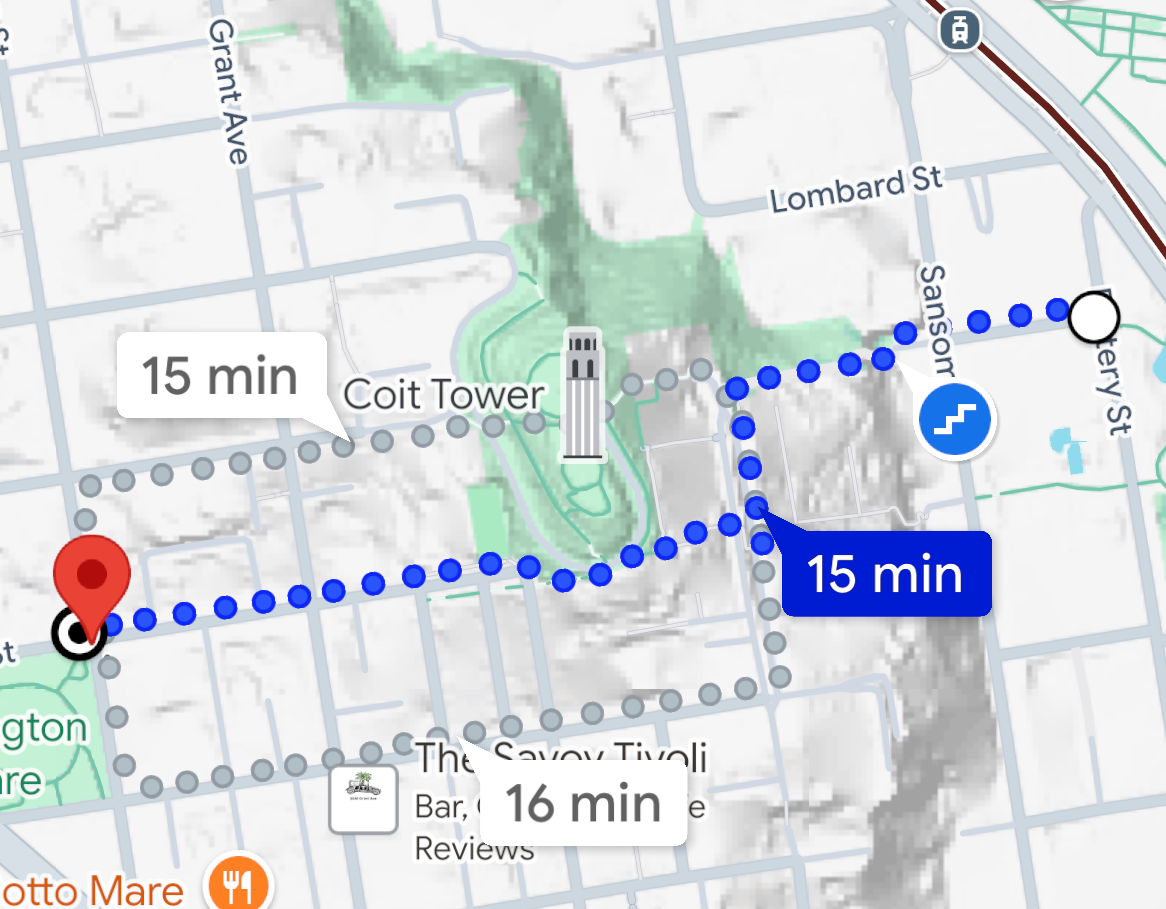
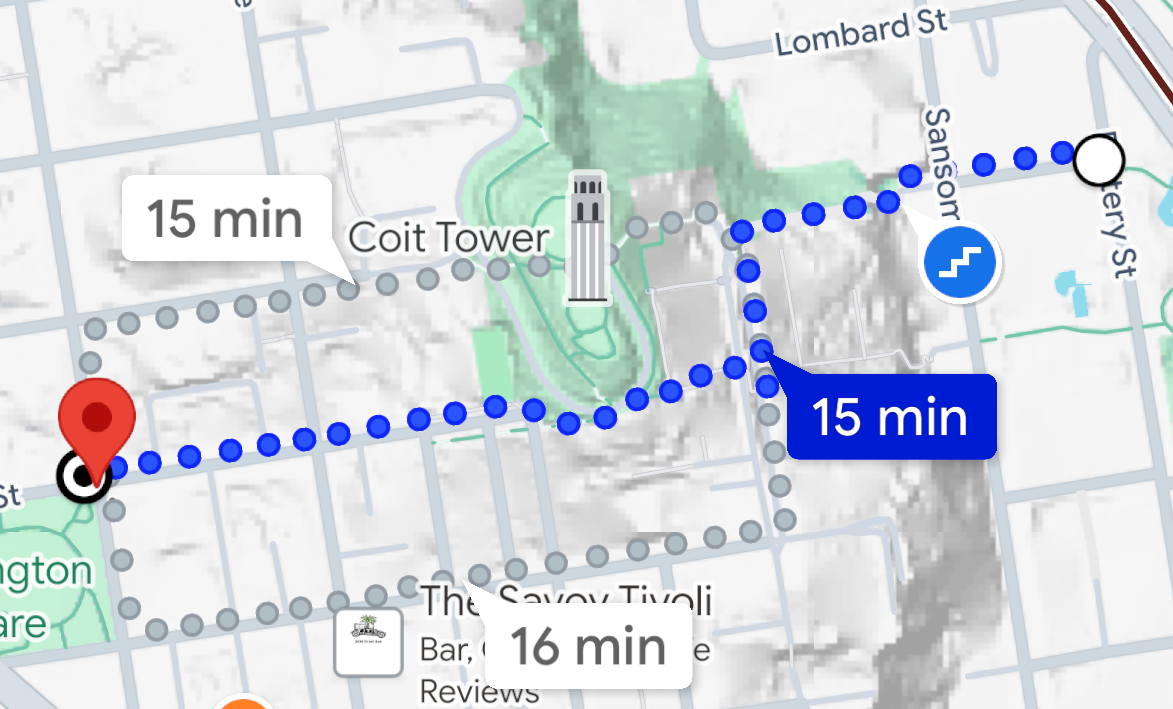
Site updated: 2025-11-25 19:37:01

diff --git a/2025/11/24/So-how-big-is-San-Francisco/index.html b/2025/11/24/So-how-big-is-San-Francisco/index.html
@@ -107,20 +107,30 @@ While he was showing me his neighb">
     <h2 id="Context"><a href="#Context" class="headerlink" title="Context"></a>Context</h2><p>My friend Daniel just started at Meta as a software engineer in San Francisco, so I went to pay him a visit.</p>
 <p>While he was showing me his neighbourhood and we were walking down from Telegraph Hill, he mentioned the city is “about 7 miles by 7 miles”. I found that an interesting fact and we left it at that.</p>
 <p>On our way back, we checked the distance to get home using Google Maps, and it showed 0.51 miles. It felt a lot longer. Why? That’s because it was. Using Google’s point to point distance measuring tool, we found that the distance of 0.51 miles was as if we were walking on a flat surface. It didn’t account for the fact that we just crossed a steep hill.</p>
-<p><img src="/images/googlemaps.jpg"
-     alt="Telegraph Hill maps route"
-     style="max-width:600px;width:100%;height:auto;display:block;margin:0 auto;" /></p>
-<p>In the measured profile of our route, you can see we climbed about 250 feet up, then descended about 170 feet down. Although the distance on the x axis shows 0.51 miles (about 2700 feet), the actual distance we walked is clearly longer.</p>
 <p><img src="/images/TelegraphHillSmooth.jpg"
      alt="Telegraph Hill walking route"
      style="max-width:600px;width:100%;height:auto;display:block;margin:0 auto;" /></p>
+<p>In the measured profile of our route, you can see we climbed about 250 feet up, then descended about 170 feet down. Although the distance on the x axis shows 0.51 miles (about 2700 feet), the actual distance we walked is clearly longer.</p>
 <p>This got us thinking, how big is San Francisco really? When we measure 7 miles, does this mean the straight line walking distance from one end of the city to the other? Or does it mean the distance if a laser went directly from one end to the other, ignoring all the hills and valleys in between?</p>
-<h2 id="How-is-surface-measured"><a href="#How-is-surface-measured" class="headerlink" title="How is surface measured?"></a>How is surface measured?</h2><br>
+<p><img src="/images/googlemaps.jpg"
+     alt="Telegraph Hill maps route"
+     style="max-width:480px;width:100%;height:auto;display:block;margin:0 auto;" /></p>
+<br>
 
-<h4 id="Planar-Area"><a href="#Planar-Area" class="headerlink" title="Planar Area:"></a>Planar Area:</h4><p>This is the most common way of measuring area. The terrain is reprojected onto a surface, effectively assuming a perfectly flat surface. Using this method means that an area would not increase in square footage if we added hills or valleys. This is what Google Maps does when it measures point to point distance, or distance on the route given by the GPS. In practice, this is the most common use case. When Uber charges you by distance or when you measure how far you ran on Strava, you’re using planar measurements.</p>
+<h2 id="How-is-surface-measured"><a href="#How-is-surface-measured" class="headerlink" title="How is surface measured?"></a>How is surface measured?</h2><div style="text-align:center;"><strong>1. Planar Area:</strong></div>
+
+<p>This is the most common way of measuring area. The terrain is reprojected onto a surface, effectively assuming a perfectly flat surface. Using this method means that an area would not increase in square footage if we added hills or valleys. This is what Google Maps does when it measures point to point distance, or distance on the route given by the GPS. In practice, this is the most common use case. When Uber charges you by distance or when you measure how far you ran on Strava, you’re using planar measurements.</p>
 <p>The exact planar area of San Francisco is 46.92 square miles (US Census Bureau).</p>
-<h4 id="Geodesic-Area"><a href="#Geodesic-Area" class="headerlink" title="Geodesic Area:"></a>Geodesic Area:</h4><p>To be slightly more accurate, geodesic measurement uses a smooth reference ellipsoid that mimics the Earth’s curvature. Just like a planar measurement, it ignores hills, valleys and roughness. That means measuring distances along the actual surface of the Earth, which is curved and uneven.</p>
-<h4 id="Terrain-aware-3D-Area"><a href="#Terrain-aware-3D-Area" class="headerlink" title="Terrain-aware (3D) Area:"></a>Terrain-aware (3D) Area:</h4><p>This method takes into account the elevation changes of the terrain. It incorporates elevation by adding up true 3D segment lengths based on a given interval. For consecutive points (x1, y1, z1) and (x2, y2, z2), the segment length is sqrt((Δx)^2 + (Δy)^2 + (Δz)^2), accounting for hills and valleys via the change in elevation Δy and Δz. This makes the distance walked or area covered strictly larger than the planar measurement. This is useful for activities like hiking or mountain biking, where elevation changes significantly impact the distance traveled. For our example of going up and down Telegraph Hill, the actual distance would be calculated by summing all the hypotenuses of the lines in the measured profile using the Pythagorean theorem.</p>
+<div style="text-align:center;"><strong>2. Geodesic Area:</strong></div>
+
+<p>To be slightly more accurate, geodesic measurement uses a smooth reference ellipsoid that mimics the Earth’s curvature. Just like a planar measurement, it ignores hills, valleys and roughness. That means measuring distances along the actual surface of the Earth, which is curved and uneven.</p>
+<div style="text-align:center;"><strong>3. Terrain-aware Area:</strong></div>
+
+<p>This method takes into account the elevation changes of the terrain. It incorporates elevation by adding up true 3D segment lengths based on a given interval. For consecutive points (x<sub>1</sub>, y<sub>1</sub>, z<sub>1</sub>) and (x<sub>2</sub>, y<sub>2</sub>, z<sub>2</sub>), the segment length is ℓ<sub>i</sub> = &radic;((Δx<sub>i</sub>)<sup>2</sup> + (Δy<sub>i</sub>)<sup>2</sup> + (Δz<sub>i</sub>)<sup>2</sup>), where Δz is elevation change; total length: L = &Sigma; ℓ<sub>i</sub>.</p>
+<p>This accounts for hills and valleys via the change in elevation Δz, making the distance walked or area covered strictly larger than the planar measurement. This is useful for activities like hiking or mountain biking, where elevation changes significantly impact the distance traveled. For our example of going up and down Telegraph Hill, the actual distance would be calculated by summing all the hypotenuses of the lines in the measured profile using the Pythagorean theorem.</p>
+<br>
+<br>
+
 <h2 id="The-coastline-paradox"><a href="#The-coastline-paradox" class="headerlink" title="The coastline paradox"></a>The coastline paradox</h2><p>It may not be obvious, but we are stumbling into a classic problem in geography called the coastline paradox. The paradox is that the distance or area depends greatly on the granularity of the measurement. The more detailed the measurement, the longer (larger) the distance (area).</p>
 <p>Let’s go back to our Telegraph Hill example. The two figures below show the measured profile of the exact same route. The difference is only in the resolution. The first uses 200’ sampling, whereas the second uses the more granular 25’ sampling. It’s visually obvious that the lower sampling (bottom figure) results in a longer line. </p>
 <p><img src="/images/TelegraphHillSmooth.jpg"
@@ -148,13 +158,13 @@ While he was showing me his neighb">
   </tbody>
 </table>
 <br>
-The Coastline Paradox.
+...The Coastline Paradox.
 <br>
 <br>
 
 <h2 id="Conclusion"><a href="#Conclusion" class="headerlink" title="Conclusion"></a>Conclusion</h2><p>To answer the question, “How big is San Francisco?”, I will give you the answer of any good economist: “It depends”.</p>
 <p>From a theoretical standpoint, the area of San Francisco is infinite.<br>From a practical standpoint, let’s stick with 7x7 miles. </p>
-<!-- Small acknowledgment -->
+<!-- Small acknowledgement -->
 <p><small>Thank you Shamil Khedgikar (geospatial data science expert) for technical details and fact checking.</small></p>
 
 

diff --git a/about/index.html b/about/index.html
@@ -16,13 +16,17 @@
 
   <!-- Title -->
   
-  <title>about - Christian&#39;s Blog</title>
+  <title>Christian - Christian&#39;s Blog</title>
 
   <!--Description-->
   
-      <meta name="description" content="Hello, I’m Christian!Welcome to my blog, where I write about what interests me in economics, tech, public policy, etc. 
-What You’ll Find Here
-My lates">
+      <meta name="description" content="Economist - Data Scientist
+  New York, NY - Montreal, QC
+
+
+
+
+AboutI work at the intersection of economics, data, and software. I like building small t">
   
 
   <!--Author-->
@@ -32,7 +36,7 @@ My lates">
 
   <!--Open Graph Title-->
   
-      <meta property="og:title" content="about"/>
+      <meta property="og:title" content="Christian"/>
   
 
   <!--Open Graph Site Name-->
@@ -94,15 +98,21 @@ My lates">
   <div class="col-12 col-lg-8 offset-lg-2 mt-4">
 
     <div class="post-page text-center my-4">
-      <h1>about</h1>
+      <h1>Christian</h1>
     </div>
 
-    <h2 id="Hello-I’m-Christian"><a href="#Hello-I’m-Christian" class="headerlink" title="Hello, I’m Christian!"></a>Hello, I’m Christian!</h2><p>Welcome to my blog, where I write about what interests me in economics, tech, public policy, etc. </p>
-<h3 id="What-You’ll-Find-Here"><a href="#What-You’ll-Find-Here" class="headerlink" title="What You’ll Find Here"></a>What You’ll Find Here</h3><ul>
-<li>My latest projects.</li>
-<li>My random musings.</li>
-</ul>
-<p>Thanks for visiting.</p>
+    <div style="text-align:center;margin-top:2rem;">
+  <em>Economist - Data Scientist</em><br/>
+  <small>New York, NY - Montreal, QC</small>
+</div>
+
+<hr style="width:60%;max-width:460px;margin:2rem auto;opacity:.25;border:0;border-top:1px solid #ccc;"/>
+
+<h2 id="About"><a href="#About" class="headerlink" title="About"></a>About</h2><p>I work at the intersection of economics, data, and software. I like building small tools, writing about measurement problems, and turning messy data into clear answers.</p>
+<h2 id="Background"><a href="#Background" class="headerlink" title="Background"></a>Background</h2><p>I build ad ranking and measurement systems at Walmart Global Tech, shipping features that directly drive millions in revenue while improving model stability. Previously at the Bank of Canada, I worked on macro models and policy simulations, and I hold an M.S. in Financial Mathematics from UChicago and a B.A. in Applied Economics from Queen’s; CFA Level III passed.</p>
+<hr style="width:60%;max-width:460px;margin:2rem auto;opacity:.25;border:0;border-top:1px solid #ccc;"/>
+
+<p><small>Opinions are my own. Not financial advice</small></p>
 
 
   </div>

diff --git a/2025/02/20/hello-world/index.html b/2025/02/20/hello-world/index.html
@@ -21,7 +21,7 @@
   <!--Description-->
   
       <meta name="description" content="Economist - Data Scientist
-New York, New York - Montreal, Canada - Sutton, Quebec
+New York, New York - Montreal, Canada 
 
 
 
@@ -29,7 +29,8 @@ New York, New York - Montreal, Canada - Sutton, Quebec
 Background
 
 
-BSc Applied Economics (Honours), Queen&#39;s University">
+BSc Applied Economics (Honours), Queen&#39;s University (2020–2024)
+MSc">
   
 
   <!--Author-->
@@ -112,7 +113,7 @@ BSc Applied Economics (Honours), Queen&#39;s University">
 
 <div style="text-align:center;margin-top:2rem;">
 <strong style="font-size:1.35rem;letter-spacing:.5px;">Economist - Data Scientist</strong><br/>
-<em>New York, New York - Montreal, Canada - Sutton, Quebec</em>
+<em>New York, New York - Montreal, Canada </em>
 </div>
 
 <hr style="width:55%;max-width:420px;margin:2.2rem auto;opacity:.3;border:0;border-top:1px solid #ccc;"/>
